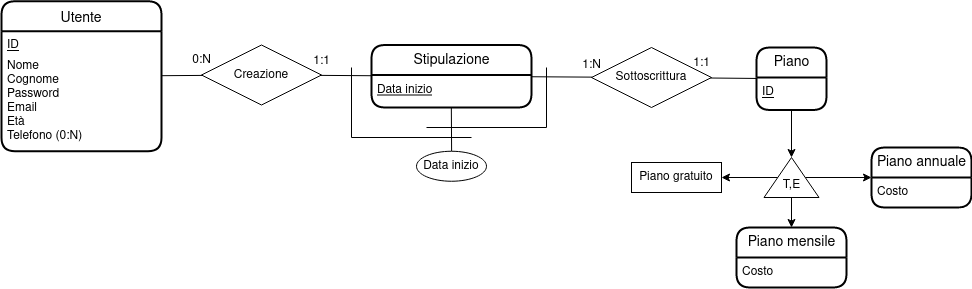
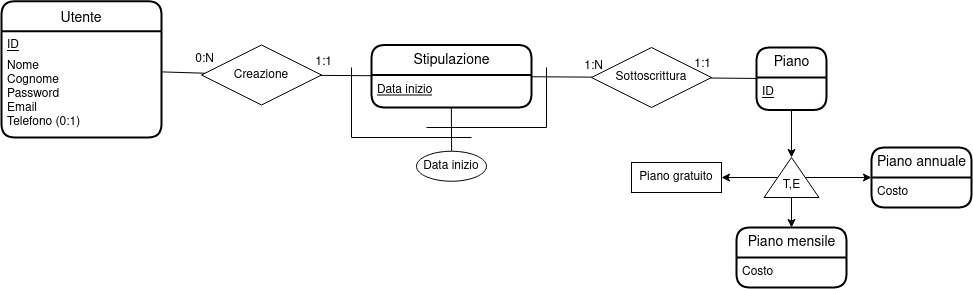
Stuff happened. Finished conceptual schema.

diff --git a/relazione/relazione.tex b/relazione/relazione.tex
@@ -1,15 +1,28 @@
 \documentclass[a4paper,12pt]{report}
-\usepackage{alltt, fancyvrb, url}
-\usepackage{graphicx}
-\usepackage[utf8]{inputenc}
-\usepackage{hyperref}
-\usepackage[italian]{babel}
-\usepackage[italian]{cleveref}
-\usepackage[margin=0.5in]{geometry}
-\usepackage{scrextend}
+\usepackage{graphicx} 		% images
+\usepackage[utf8]{inputenc}	% encoding: UTF-8
+\usepackage[italian]{babel}	% language
+\usepackage[margin=0.5in, includefoot]{geometry}	% margin
+\usepackage{scrextend}		% KOMA scripts?
+\usepackage{array}			% table width
+\usepackage[table]{xcolor}	% table colors
+\usepackage{tocloft}			% table of contents
+\usepackage{hyperref}			% hyperlinks inside document
+\usepackage[italian]{cleveref}	% ^
+
+\renewcommand{\cftsecleader}{\cftdotfill{\cftdotsep}}
+\newcommand\chap[1]{
+    \chapter*{#1}
+    \addcontentsline{toc}{chapter}{#1}
+    \markboth{#1}{#1}}
+    
+\newcommand\sect[1]{
+    \section*{#1}
+    \addcontentsline{toc}{section}{#1}
+    \markboth{#1}{#1}}
 
 \title{
-\Huge Elaborato per il corso di Basi di Dati \\
+\Huge \textbf{Elaborato per il corso di Basi di Dati} \\
 [4mm]
 \large A.A. 2020/2021 \\
 \large Progetto di una base di dati per la gestione di un servizio online
@@ -19,27 +32,15 @@ christian.ricci3@studio.unibo.it \\
 0000915693}
 
 \begin{document}
-%\begin{titlepage}
-	%\begin{center}
-	%\line(1,0){300} \\
-	%[0.25in]
-	%\huge{\bfseries Elaborato per il corso di Basi di Dati} \\
-	%[2mm]
-	%\Large{A.A 2020/2021} \\
-	%Progetto di una base di dati per la gestione di un servizio online \\
-	%\line(1,0){200} \\
-	%\
-	%\end{center}
-%\end{titlepage}
 
 \maketitle
 \tableofcontents
 
-\chapter{Analisi dei requisiti}
+\chap{Analisi dei requisiti}
 
 Si vuole realizzare un database per gestire un servizio online di videogiochi. Il database dovrà immagazzinare dati relativi ai videogiochi, agli utenti, alle iscrizioni. Gli utenti potranno {giocare} accedendo al servizio e potranno partecipare in sessioni multiplayer. I direttori del servizio potranno aggiungere nuovi videogiochi, consultare statistiche riguardanti gli utenti, etc.
 
-\section{Definizione delle specifiche in linguaggio naturale}
+\sect{Definizione delle specifiche in linguaggio naturale}
 
 Il testo ottenuto dall'intervista con l'azienda è il seguente:\\\\
 
@@ -56,17 +57,19 @@ Infine, si vuole anche immagazzinare anche alcune informazioni relative al multi
 
 \end{addmargin}
 
-\section{Estrazione dei concetti fondamentali}
+\sect{Estrazione dei concetti fondamentali}
 
 I concetti principali sono riassunti in questa tabella.
 
+\renewcommand{\arraystretch}{1.8}
+\arrayrulecolor[HTML]{a7acb1}
+\begin{table}[h!]
 \begin{center}
-	\begin{tabular}{ |c|c|c| }
-	\hline
-	Termine & Breve descrizione & Eventuali sinonimi \\
-	\hline
+	\begin{tabular}{ m{6cm} m{6cm} m{6cm} }
+	\rowcolor[HTML]{deecdc}
+	\textbf{Termine} & \textbf{Breve descrizione} & \textbf{Eventuali sinonimi} \\
 	Utente & Colui che accede al servizio e interagisce con i giochi presenti. & Nessuno \\
-	\hline	
+	\hline
 	Videogioco & TODO & TODO \\
 	\hline
 	Piano & TODO & Abbonamento \\
@@ -79,6 +82,8 @@ I concetti principali sono riassunti in questa tabella.
 	\hline
 	\end{tabular}
 \end{center}
+\caption{La tabella dei concetti principali.}
+\end{table}
 
 A seguito della lettura e comprensione dei requisiti richiesti dal cliente, si procede sviluppando un testo che
 ne riassuma tutti i concetti e in particolare ne estragga quelli principali, risultando essere in questo modo
@@ -111,11 +116,11 @@ Da questo testo si può anche evincere le principali azioni richieste:
 \item Partecipazione di un utente ad una sessione di gioco;
 \end{itemize}
 
-\chapter{Progetto dello schema concettuale}
+\chap{Progetto dello schema concettuale}
 
 La strategia adottata per creare lo schema concettuale è una strategia mista, orientata al bottom-up. Il database è composto da più ambiti, che verranno analizzati e raffinati uno ad uno, per poi creare uno schema finale che comprenda tutto il database.
 
-\section{Schema scheletro}
+\sect{Schema scheletro}
 
 L'associazione tra utente e piano è abbastanza evidente. Per rappresentare i tre tipi di piano, si è scelto di usare specializzazioni per la più generica entità piano. Per rappresentare lo storico dei piani, si è deciso di fare una reificazione dell'associazione tra utente e piano: quest'entità conterrà inoltre la data di inizio. La data di scadenza di un piano non deve necessariamente essere memorizzata, dato che si può evincere subito dal tipo di piano. Per identificare le varie entità, si è scelto di identificare sia utenti che piani con un ID unico, mentre le stipulazioni sono identificate dall'utente, dal piano e dalla data di inizio. Un'utente non può stipulare un piano se ha già un piano in corso: questo vincolo non si può esprimere con facilità nello schema concettuale, perciò sarà inserito come business rule.
 
@@ -123,19 +128,96 @@ L'associazione tra utente e piano è abbastanza evidente. Per rappresentare i tr
 \centering{}
 \includegraphics[width=\textwidth]{piani.png}
 \caption{Lo schema Entity-Relationship relativo at utenti e piani.}
-\label{img:mainuml}
+\label{img:schema_piano}
 \end{figure}
 
+Riguardo alle relazioni tra Utente e Videogioco, abbiamo sia una relazione che riguarda le statistiche, sia una che riguarda l'acquisto di copie fisiche di un videogioco da parte dell'utente. Dato che occorre immagazzinare le statistiche riguardo coppie utente-videogioco, l'associazione statistiche viene convertita in entità. Questa entità riguarda i singoli videogiochi: per ottenere statistiche quali i giochi preferiti di un utente basterà creare una query a lato software. L'entità statistiche è identificata tramite l'utente e il videogioco in questione.
 
+La conversione a entità accade anche per Copia Videogioco, dato che per un videogioco ci possono essere più copie fisiche. Il prezzo di ogni copia non riguarda le singole copie, bensì riguarda il gioco in sè, e si suppone inoltre che questo dato rimanga costante nel tempo, per cui è stato messo come attributo di videogioco. Una copia può anche rimanere invenduta, quindi si è pensato di immagazzinare il dato relativo alla data di acquisto come attributo dell'associazione Acquisto. Ogni copia è identificata tramite un codice univoco e l'associazione al videogioco di cui è copia.
 
-\chapter{Specifiche funzionali}
+\begin{figure}[h]
+\centering{}
+\includegraphics[width=\textwidth]{vg.png}
+\caption{Lo schema Entity-Relationship relativo agli utenti, videogiochi, copie e statistiche.}
+\label{img:schema_vg}
+\end{figure}
 
-\chapter{Progetto logico}
+L'ambito relativo alle sessioni di gioco multiplayer è il più semplice. Un Videogioco Multiplayer è una specializzazione di Videogioco ed aggiunge gli attributi di numero minimo e massimo di giocatori. Le due entità Utente e Videogioco Multiplayer sono associate all'entità Sessione, che raccoglie dati relativi alla specifica sessione. Una sessione è identificata dall'attributo ID di Sessione e dall'associazione con Videogioco Multiplayer. Per sottolineare il fatto che un solo utente può dare inizio ad una sessione, mentre più utenti possono parteciparvi, si è optato per due associazioni, Creazione e Partecipazione, tra Utente e Sessione. Rimane un vincolo inespresso: in una sessione, il numero minimo e massimo di giocatori dipende dal videogioco, cosa difficile da esprimere usando il modello ER.
 
-\chapter{Progetto fisico}
+\begin{figure}[h!]
+\centering{}
+\includegraphics[width=\textwidth]{session.png}
+\caption{Lo schema Entity-Relationship relativo alle sessioni.}
+\label{img:schema_sessione}
+\end{figure}
 
-\chapter{Interfaccia utente}
+\section*{Schema finale}
 
-\chapter{Glossario}
+\begin{figure}[h!]
+\centering{}
+\includegraphics[width=\textwidth]{er.png}
+\caption{Lo schema Entity-Relationship finale.}
+\label{img:schema_sessione}
+\end{figure}
+
+\chap{Progettazione logica}
+
+\sect{Stima del volume dei dati.}
+
+\begin{table}[h!]
+\begin{center}
+	\begin{tabular}{ l l l }
+	\rowcolor[HTML]{deecdc}
+	\textbf{Concetto} & \textbf{Costrutto} & \textbf{Volume} \\
+	Utente & E & 10.000 \\
+	Videogioco & E & 1000 \\
+	\hline
+	\end{tabular}
+\end{center}
+\caption{La tabella dei volumi.}
+\end{table}
+
+\sect{Descrizione delle operazioni principali e stima della loro frequenza}
+
+\begin{table}[h!]
+\begin{center}
+	\begin{tabular}{ l l }
+	\rowcolor[HTML]{deecdc}
+	\textbf{Operazione} & \textbf{Frequenza} \\
+	Giocare ai videogiochi & 10000 al giorno \\
+	\hline
+	\end{tabular}
+\end{center}
+\caption{La tabella dei volumi.}
+\end{table}
+
+\sect{Schemi di navigazione e tabelle degli accessi}
+
+\begin{table}[h!]
+\begin{center}
+	\begin{tabular}{ l l l l }
+	\rowcolor[HTML]{deecdc}
+	\textbf{Concetto} & \textbf{Costrutto} & \textbf{Accessi} & \textbf{Tipo} \\
+	Utente & E & 1 & S \\
+	\hline
+	\end{tabular}
+\end{center}
+\end{table}
+
+\sect{Raffinamento dello schema}
+
+\sect{Analisi delle ridondanze}
+
+\sect{Traduzione di entità e associazioni in relazioni}
+
+\sect{Schema relazionale finale}
+
+\sect{Costruzione delle tabelle in linguaggio SQL}
+
+\sect{Traduzione delle operazioni in query SQL}
+
+\chap{Progettazione dell'applicazione}
+
+\sect{Descrizione dell'architettura dell'applicazione}
 
 \end{document}

diff --git a/src/main.cpp b/src/main.cpp
@@ -10,14 +10,21 @@
 
 bool connect_db(const QString &table)
 {
+    auto s = [](const auto &p) { return p.toStdString(); };
+
     QSqlDatabase db = QSqlDatabase::addDatabase("QMYSQL");
     db.setHostName("");
     db.setDatabaseName(table);
-    db.setUserName("");
-    db.setPassword("");
+    db.setUserName("chris");
+    db.setPassword("mypass");
     bool ok = db.open();
     if (!ok)
-        error("{}\n", db.lastError().text().toStdString());
+        error("{}\n", s(db.lastError().text()));
+    fmt::print("connection name: {}\n", s(db.connectionName()));
+    fmt::print("connection opts: {}\n", s(db.connectOptions()));
+    fmt::print("hostname: {}\n", s(db.hostName()));
+    fmt::print("username: {}\n", s(db.userName()));
+    fmt::print("password: {}\n", s(db.password()));
     return ok;
 }
 
